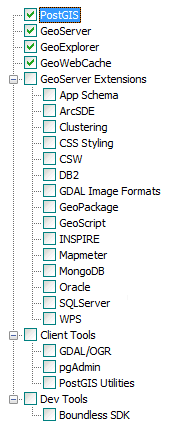
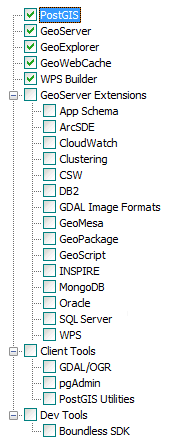
Updating Windows install screenshots and components list

diff --git a/docs/usermanual/source/intro/installation/windows/components.rst b/docs/usermanual/source/intro/installation/windows/components.rst
@@ -30,16 +30,19 @@ Top level
      - Availability
    * - PostGIS
      - The PostgreSQL/PostGIS spatial database.
-     - 
+     - All versions
    * - GeoServer
      - Server implementing OGC compliant map and feature services.
-     - 
+     - All versions
    * - GeoExplorer
      - Map viewing and editing application.
-     - 
+     - All versions
    * - GeoWebCache
      - Tile caching server.
-     - 
+     - All versions
+   * - WPS Builder
+     - :ref:`Graphical utility <processing.wpsbuilder> for executing WPS processes`
+     - OpenGeo Suite Enterprise only
 
 GeoServer Extensions
 --------------------
@@ -52,27 +55,33 @@ GeoServer Extensions
    * - Component
      - Description
      - Availability
+   * - App Schema
+     - Application Schema support.
+     - OpenGeo Suite Enterprise only
    * - ArcSDE
      - ArcSDE database support.
      - OpenGeo Suite Enterprise only
-   * - App Schema
-     - Application Schema support.
+   * - CloudWatch
+     - Connection to :ref:`Amazon CloudWatch <sysadmin.cloudwatch>` monitoring.
      - OpenGeo Suite Enterprise only
    * - Clustering
      - :ref:`Clustering <sysadmin.clustering>` plug-ins.
      - OpenGeo Suite Enterprise only
    * - CSW
      - Catalogue Service for Web (CSW) support.
-     - 
+     - All versions
    * - DB2
      - DB2 database support.
      - OpenGeo Suite Enterprise only
    * - GDAL Image Formats
      - Additional raster formats support as part of GDAL integration.
      - OpenGeo Suite Enterprise only
+   * - GeoMesa
+     - :ref:`GeoMesa <dataadmin.geomesa>` data source support.
+     - OpenGeo Suite Enterprise only
    * - GeoPackage
      - GeoPackage data source support.
-     - 
+     - All versions
    * - GeoScript
      - Scripting extension for GeoServer.
      - OpenGeo Suite Enterprise only
@@ -85,12 +94,12 @@ GeoServer Extensions
    * - Oracle
      - :ref:`Oracle <dataadmin.oracle>` database support.
      - OpenGeo Suite Enterprise only
-   * - SQLServer
+   * - SQL Server
      - SQL Server database support.
      - OpenGeo Suite Enterprise only
    * - WPS
      - :ref:`Web Processing Service (WPS) <processing>` support.
-     - 
+     - All versions
 
 Client Tools
 ------------
@@ -105,13 +114,13 @@ Client Tools
      - Availability
    * - GDAL/OGR
      - Spatial data manipulation utilities such as ``gdal_translate`` and ``ogr2ogr``.
-     - 
+     - All versions
    * - pgAdmin
      - Graphical PostGIS/PostgreSQL database manager. Also includes **pgShapeloader** a graphical utility for loading data into PostGIS
-     - 
+     - All versions
    * - PostGIS Utilities
      - PostGIS command line data loading utilities such as ``psql`` and ``shp2pgsql``. 
-     - 
+     - All versions
 
 Dev Tools
 ---------
@@ -125,5 +134,5 @@ Dev Tools
      - Description
      - Availability	   
    * - Boundless SDK
-     - Toolkit for building web map applications.
-     - 
+     - Tool kit for building web map applications.
+     - All versions
